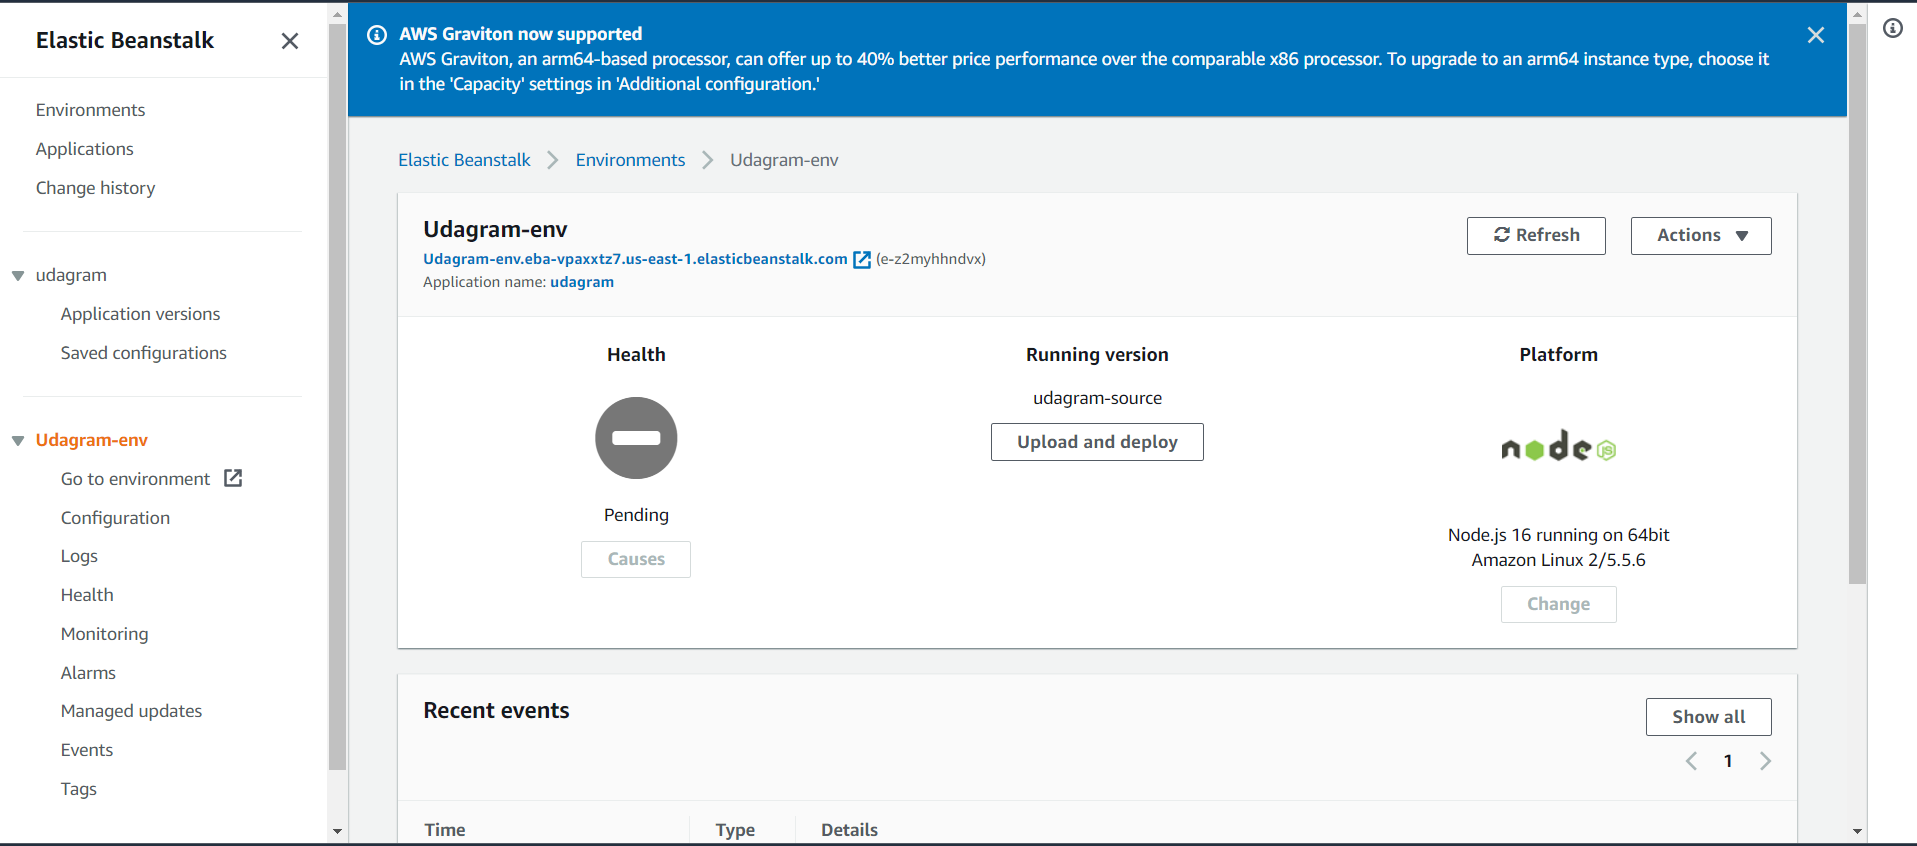
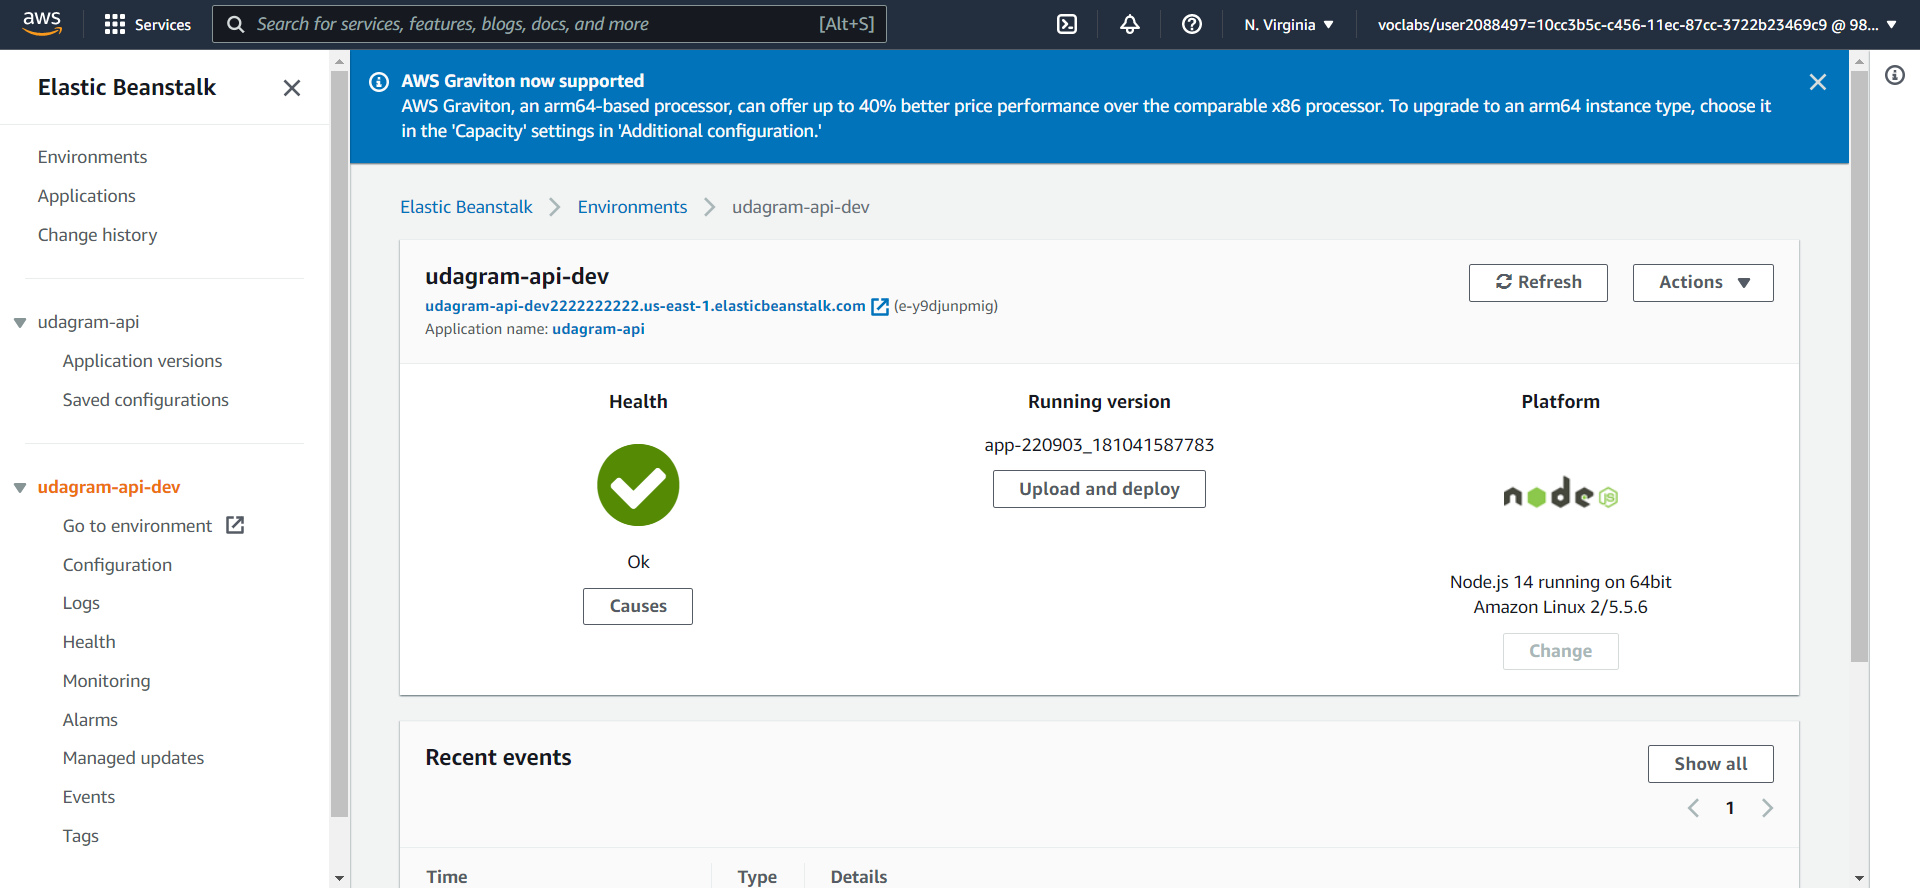
backend worked

diff --git a/udagram/udagram-api/src/config/config.ts b/udagram/udagram-api/src/config/config.ts
@@ -12,6 +12,7 @@ export const config = {
     // password: process.env.POSTGRES_PASSWORD, 
     // database: process.env.POSTGRES_DB, 
     // host: process.env.POSTGRES_HOST, 
+    // aws_media_bucket: process.env.AWS_BUCKET,
     // aws_region: process.env.AWS_REGION,
     // aws_profile: process.env.AWS_PROFILE,
     // jwt: {
@@ -23,7 +24,7 @@ export const config = {
     host: "database-1.chl1kfuz4ezd.us-east-1.rds.amazonaws.com", 
     port: Number(process.env.PORT), 
     dialect: "postgres",
-    aws_media_bucket: process.env.AWS_BUCKET,
+    aws_media_bucket: "arn:aws:s3:::khatibbucket",
     aws_region: "us-east-1",
     aws_profile: "default",
     jwt: {

diff --git a/udagram/udagram-frontend/src/environments/environment.ts b/udagram/udagram-frontend/src/environments/environment.ts
@@ -5,7 +5,8 @@
 export const environment = {
   production: false,
   appName: 'Udagram',
-  apiHost: 'http://localhost:8080/api/v0'
+  apiHost: 'http://udagram-api-dev2222222222.us-east-1.elasticbeanstalk.com/api/v0'
+  // apiHost: 'http://localhost:8080/api/v0'
 };
 
 /*
